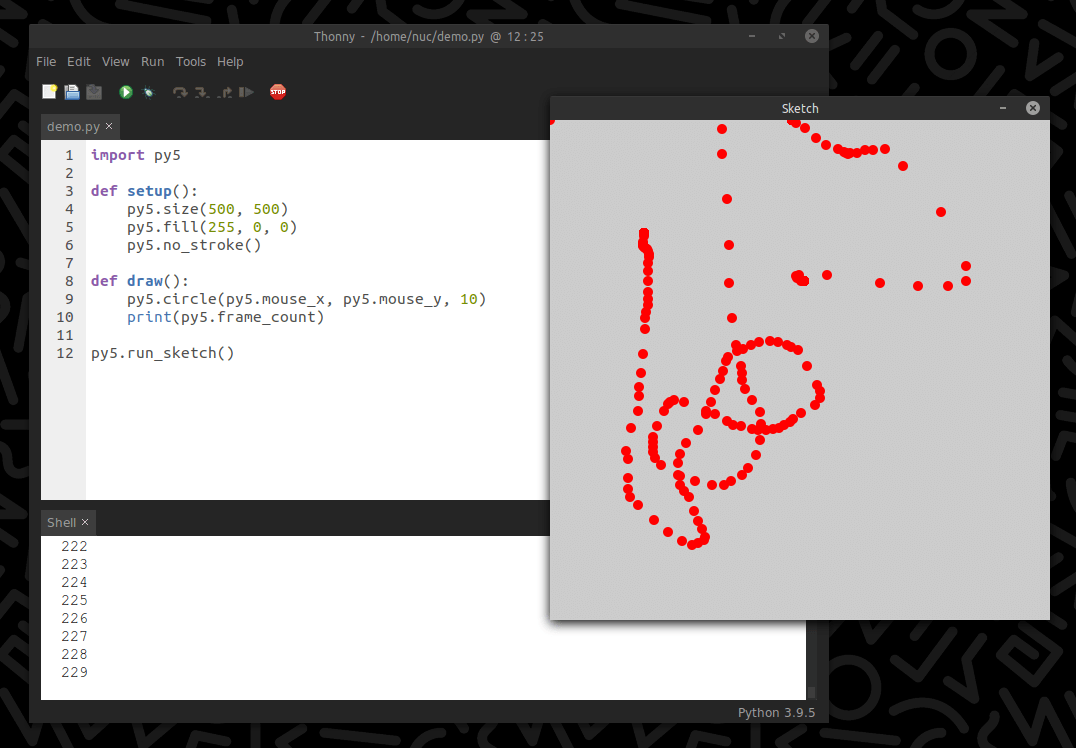
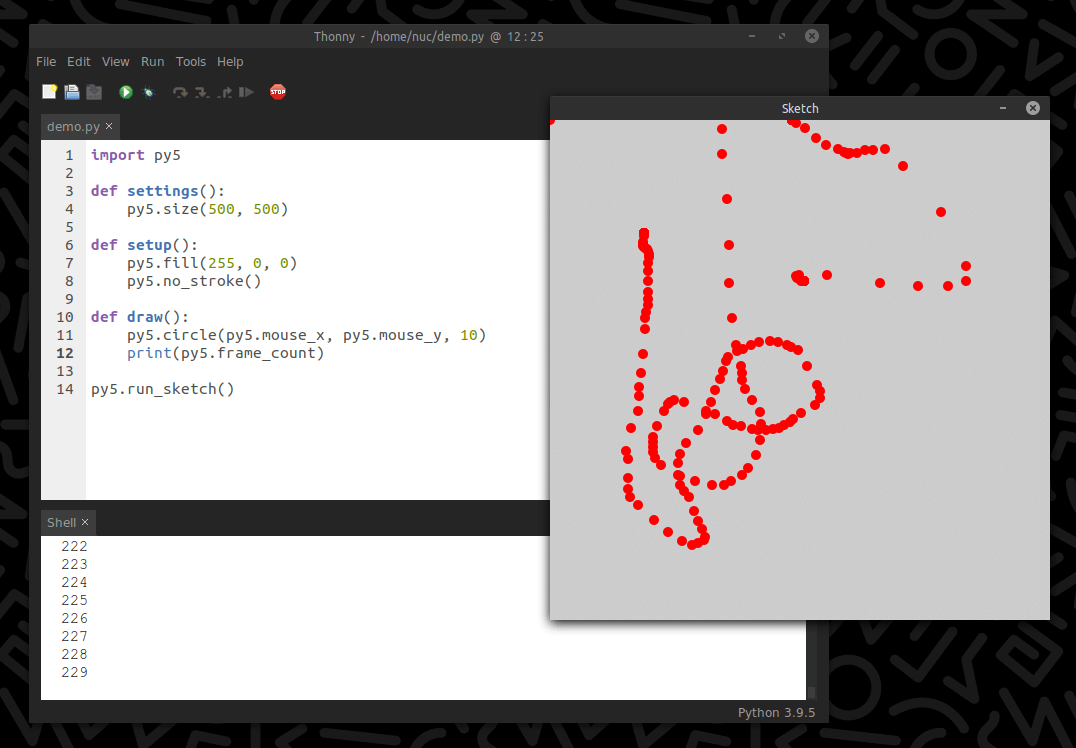
- re-add settings function to module mode

Changed region(s): [[0.0613, 0.246, 0.46, 0.5227], [0.2454, 0.2767, 0.276, 0.3075]]

diff --git a/_posts/2021-06-21-thonny_and_py5.md b/_posts/2021-06-21-thonny_and_py5.md
@@ -152,8 +152,10 @@ In *Module mode*, you'll access py5 functionality through module-level functions
 ```python
 import py5
 
-def setup():
+def settings():
     py5.size(500, 500)
+
+def setup():
     py5.fill(255, 0, 0)
     py5.no_stroke()
 
